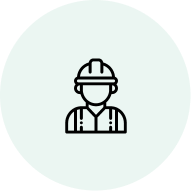
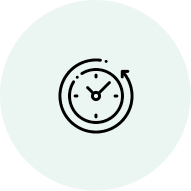
change BLI bg1

Changed region(s): [[0.288, 0.288, 0.7068, 0.7068]]

diff --git a/src/components/Projects/RedesignBLI.js b/src/components/Projects/RedesignBLI.js
@@ -47,17 +47,17 @@ class RedesignBLI extends Component {
                 <div className="section">
                     <h5>BACKGROUND</h5>
                     <p>
-                        The website of the Bureau of Labor Insurance provides a variety of services to more than millions of workers, including farmers, fishermen, and so on. Users are required to prepare a card reader and insert their Citizen Digital Certificate to log in to the website, which made it more challenging for first-time users. Besides, these people do not visit the website more than twice a year because their need for insurance-related issues does not happen frequently.
+                        We have a limited time to redesign the website of the Bureau of Labor Insurance, which provides a variety of services to more than millions of workers, including farmers, fishermen, and so on. Users are required to prepare a card reader and insert their Citizen Digital Certificate to log in to the website, which made it more challenging for first-time users. Besides, these people do not visit the website more than twice a year because their need for insurance-related issues does not happen frequently.
                     </p>
                     <div className="row justify-content-center">
                         <div className="col">
                             <img className="restriction-icon" src="/images/BLI/Background1.png" />
                             <div>
                                 <p className="gray-text">
-                                    The website provides a variety of services.
+                                    The redesign project has to be completed in 10 weeks.
                                 </p>
                                 <p>
-                                    &#8594; Each user’s goal differs from others. We need to focus on our selected target audience to narrow down the project scope.
+                                    &#8594; Although the website serves people from all walks, we need to select our target audience to narrow down the project scope.
                                 </p>
                             </div>
                         </div>
